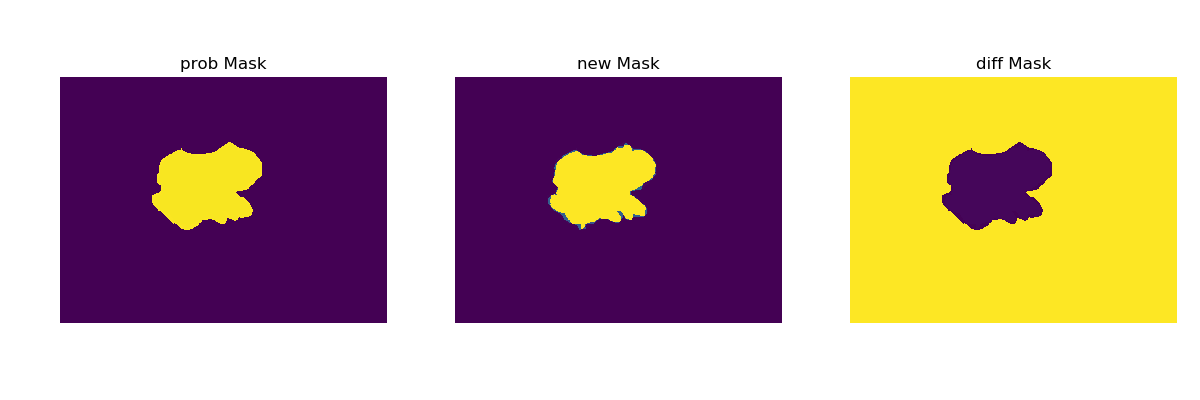
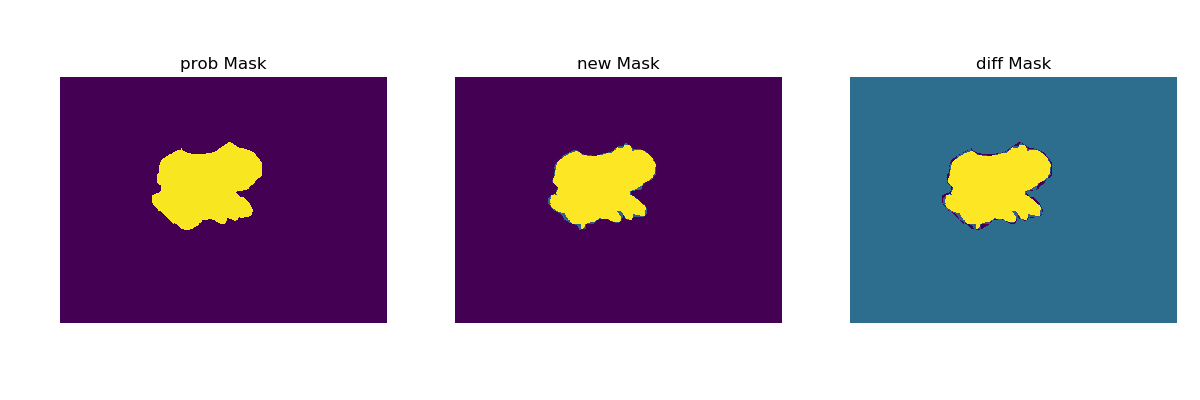
new gt

Changed region(s): [[0.7092, 0.18, 0.9867, 0.81]]

diff --git a/bin/maximum_likelihood_gt.py b/bin/maximum_likelihood_gt.py
@@ -139,6 +139,8 @@ def plot_comparison(array_prob, new_mask_uint8, save_path, idx):
     # Create a figure with three subplots
     fig, axs = plt.subplots(1, 3, figsize=(12, 4))
 
+    print(array_prob.max())
+    print(new_mask_uint8.max())
     # Display the images in the subplots
     axs[0].imshow(array_prob)
     axs[0].set_title("prob Mask")
@@ -148,7 +150,7 @@ def plot_comparison(array_prob, new_mask_uint8, save_path, idx):
     axs[1].set_title("new Mask")
     axs[1].axis("off")
 
-    axs[2].imshow((new_mask_uint8 / 255. - array_prob) * 255.)
+    axs[2].imshow((new_mask_uint8 / 255. - array_prob / 255.) * 255.)
     axs[2].set_title("diff Mask")
     axs[2].axis("off")
 
